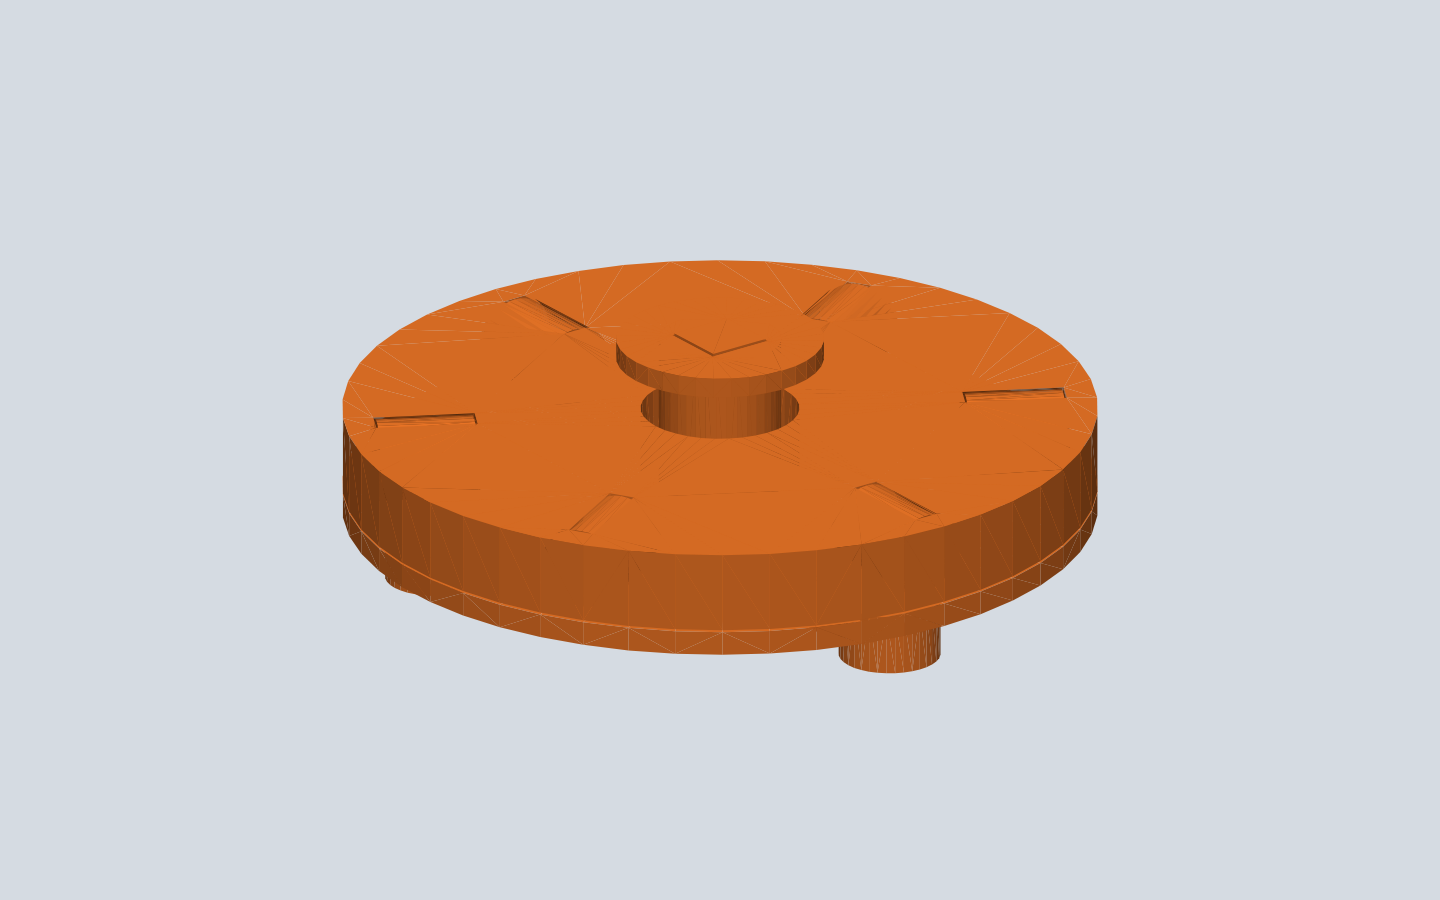
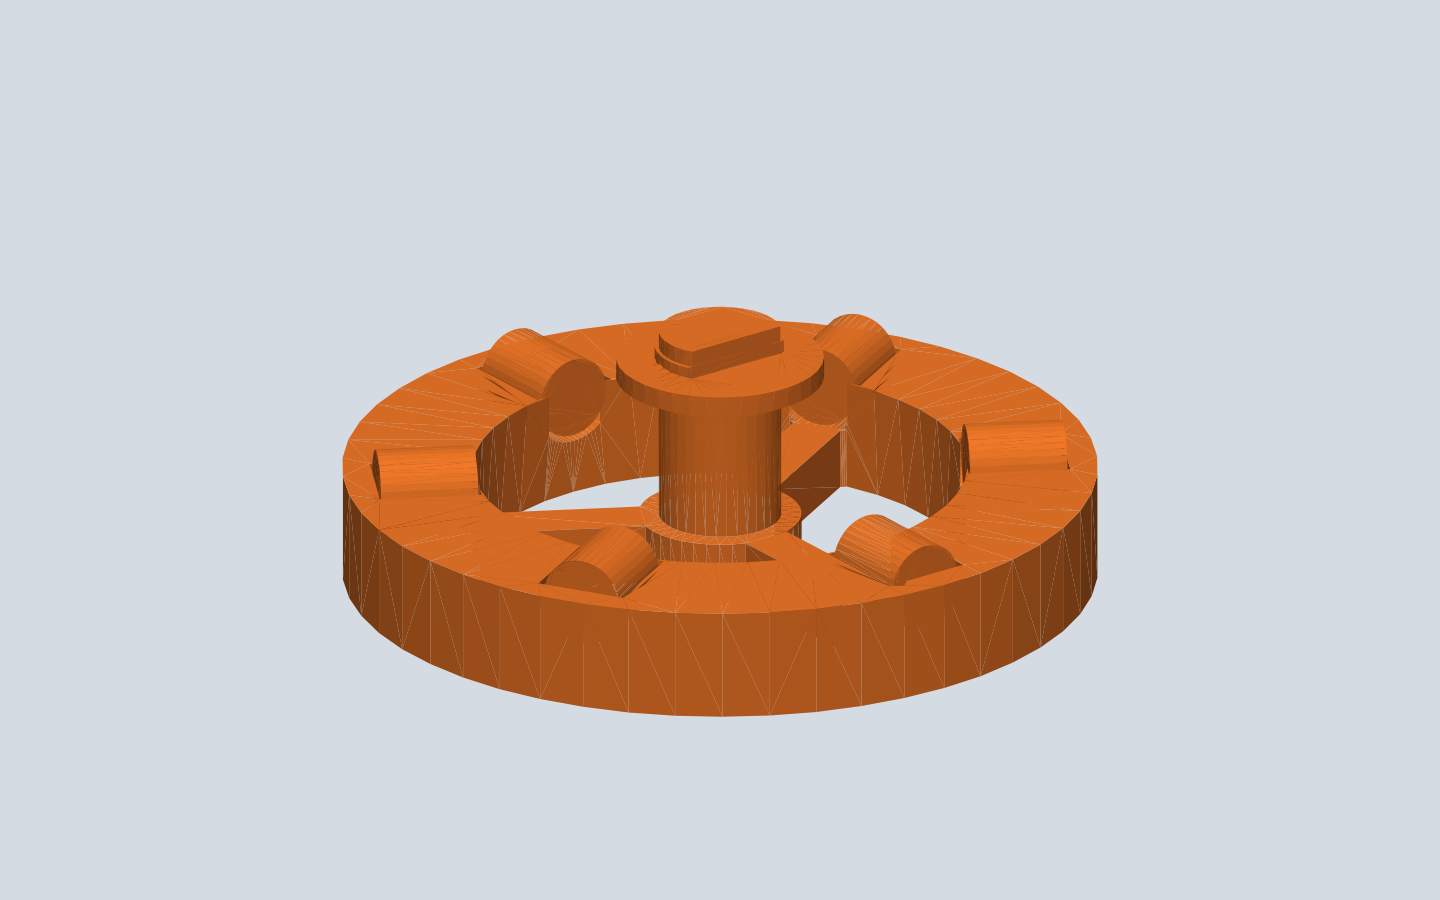
docs(print-kit): race-ring review shots and live cost
Exam-scale kit is 73.6 cm3 / 38.3 g / .77 PLA after replacing the cookie race with a ring. Review shots show the open Y-frame.

Changed region(s): [[0.2188, 0.28, 0.7812, 0.8089]]

diff --git a/docs/agentic/PRINT_KIT_REPORT.md b/docs/agentic/PRINT_KIT_REPORT.md
@@ -55,6 +55,7 @@ shaft/hub/wings/plate/bushing/cap names):
 
 Assumptions: Bambu PLA Basic Orange + Bambu PLA Glow, 1.24 g/cm³, $20/kg, print-volume factor 0.42.
 
-At exam scale 0.4 the last green run was ~91.7 cm³ CAD solid, **47.7 g**,
-**$0.95** PLA. The exam writes the live figures next to the project.
+At exam scale 0.4 the last green run was ~73.6 cm³ CAD solid, **38.3 g**,
+**$0.77** PLA (race ring, not a cookie disk). The exam writes the live
+figures next to the project.
 Electricity and machine time are not priced. No additional hardware.
